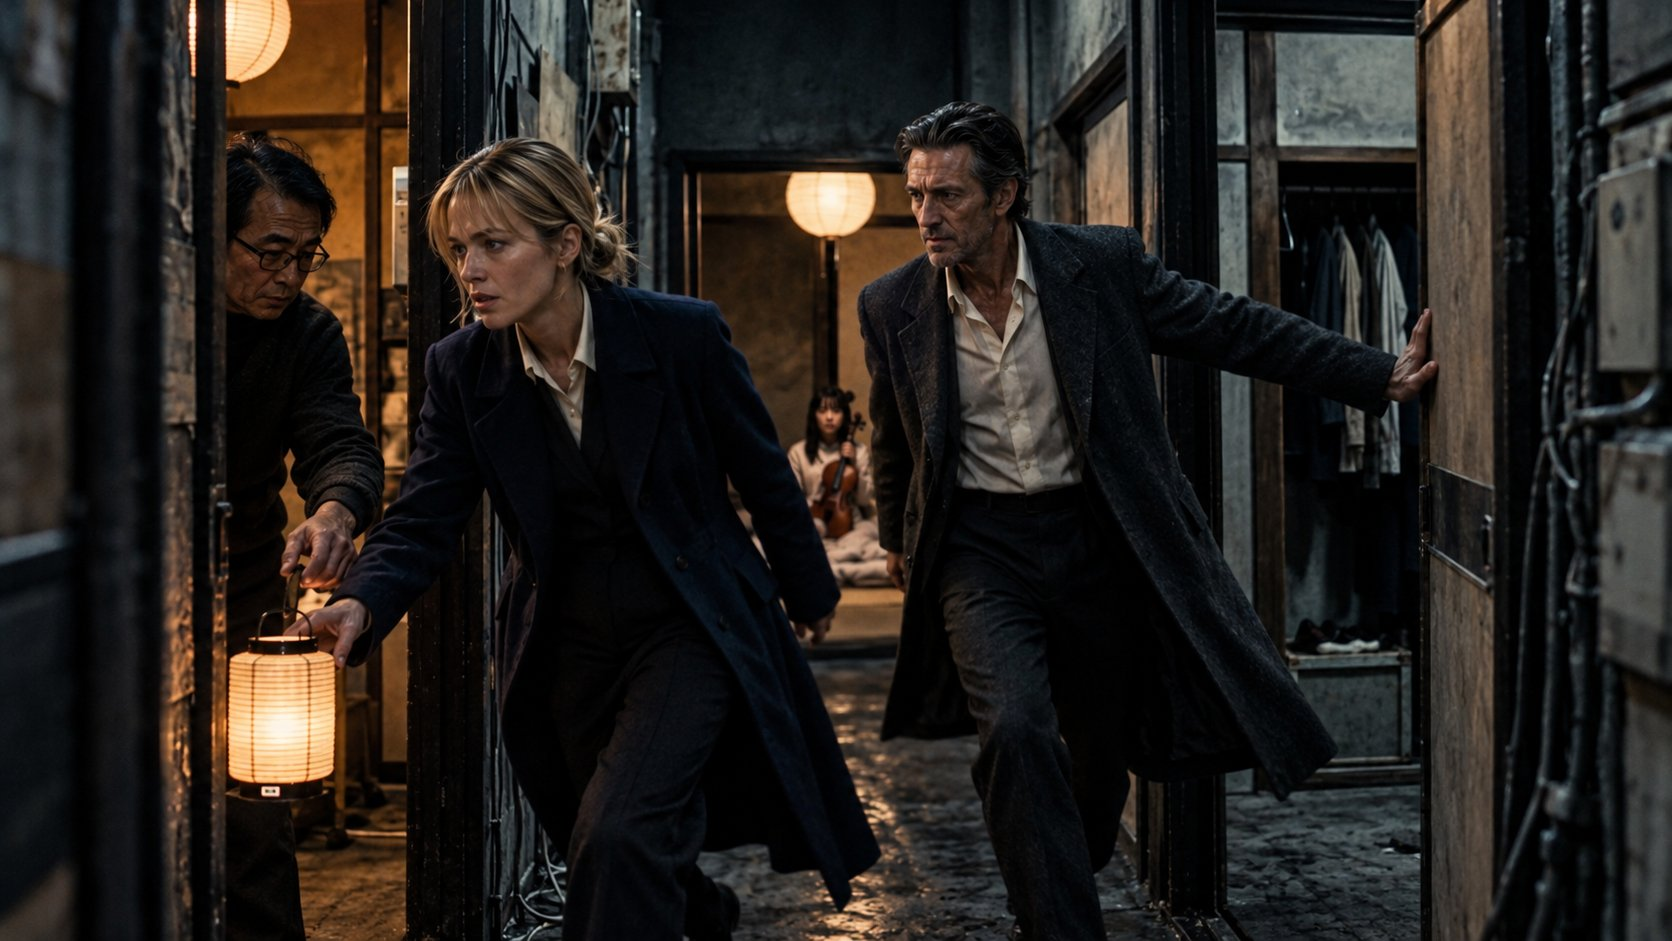
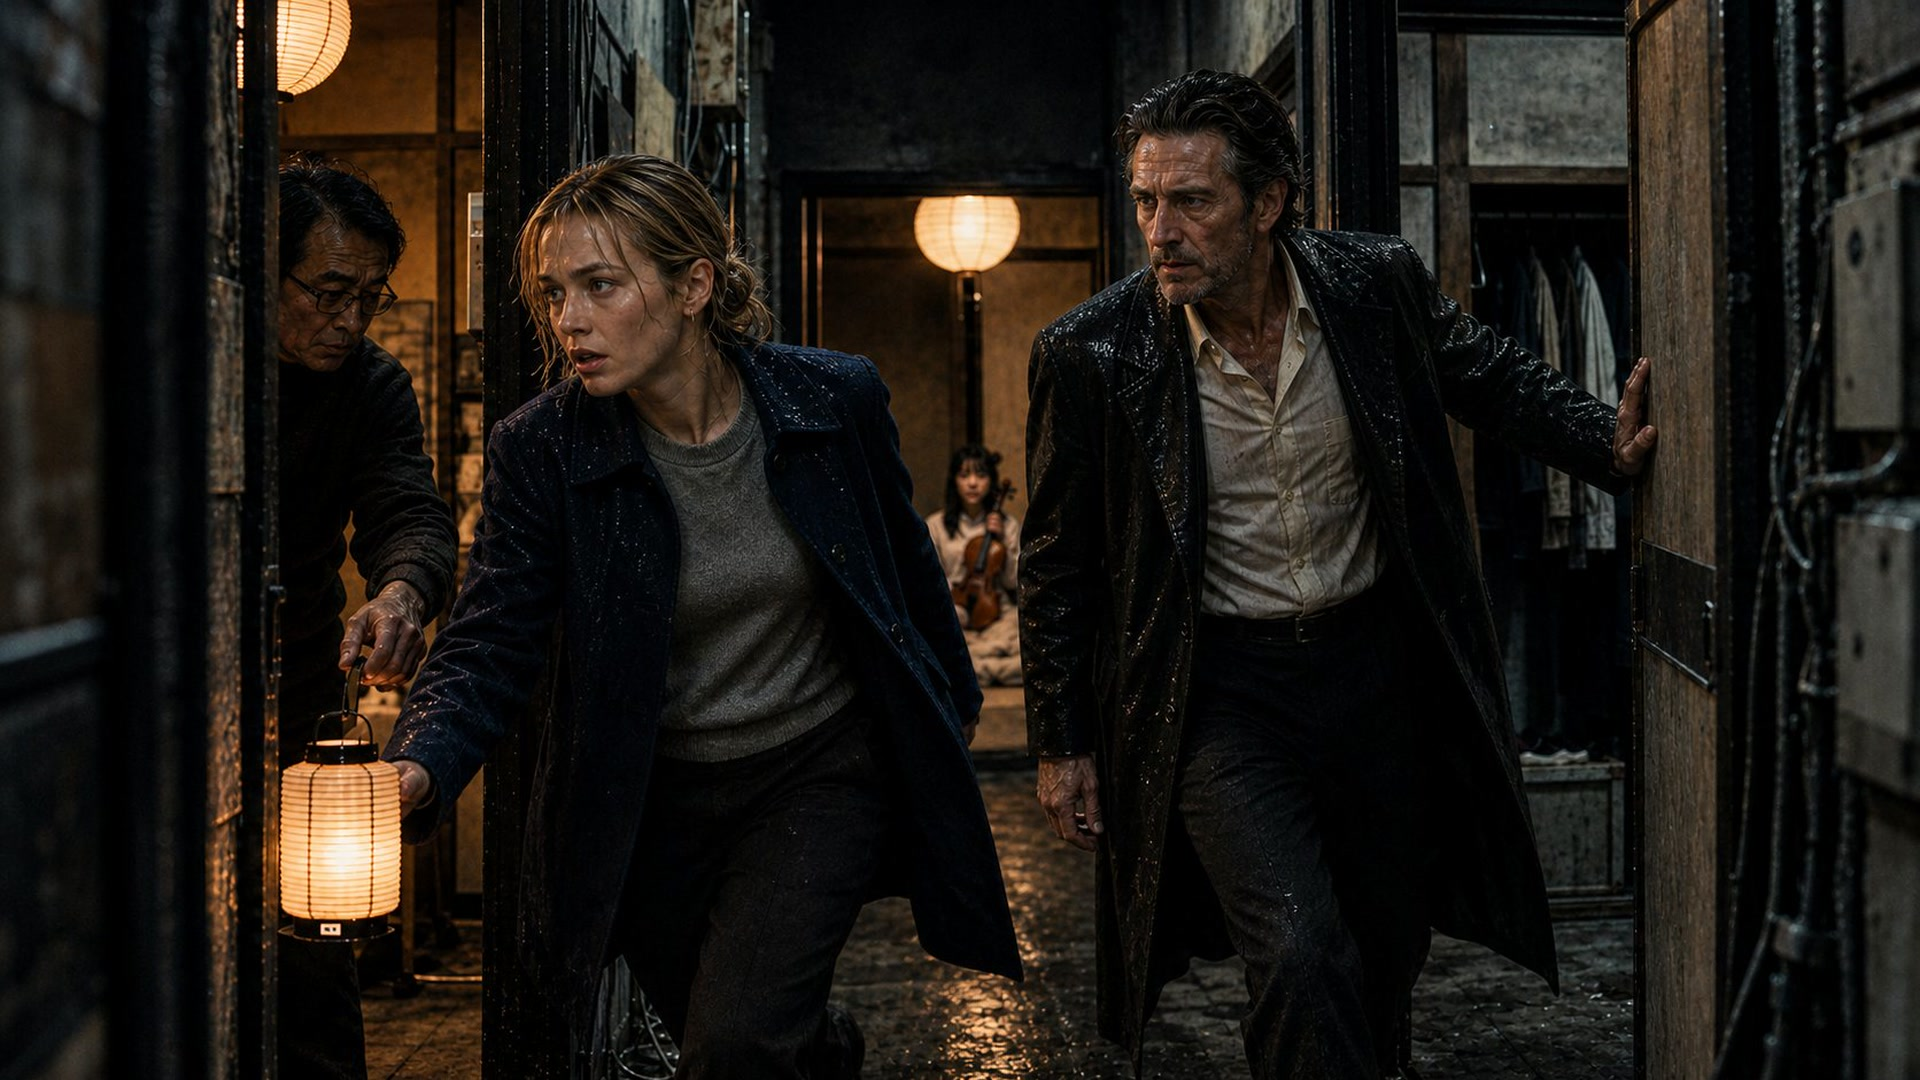
Retake s90/132, s70/396 and s94/368 at house size, on-model
The lantern passage and the run to the Hive door held to the cast sheets plus
the sequence's own matched frames; Kurose and Ishida on the back seat held to
sheets/kurose.jpg and sheets/ishida.jpg with the tea cup from s94/139. All
three installed at 1920x1080 (were 1672x941, 1344x768 and 1408x736), old files
archived, notes updated.

diff --git a/docs/director-notes-2026-10-20.md b/docs/director-notes-2026-10-20.md
@@ -408,14 +408,14 @@ The director picked the 17 pictures made from `docs/image-brief-2026-10-20.md` a
   generator's download, an earlier upload), install those over the halves with the install tool, which archives the old file.
   Otherwise they are retake candidates. The player stretches them to the screen, so they look soft.
   - 1365×768: `s17/360-more-than-the-bowl-costs` (remade 1920×1080 on 24 Oct), `s20/346-the-bulb-hums` (remade 2728×1534 on 24 Oct), `s54/220-everything-is-still-there` (remade 2508×1410 on 24 Oct), `s70/393-run` (remade 24 Oct),
-    `s90/381-the-plank` (remade 24 Oct), `s93/137-he-knows-this-car` (remade 24 Oct), `s93/138-the-door-opens` (remade 24 Oct),
-    `s94/139-only-tea` (remade 24 Oct), `s97a/565-they-bow` (remade 2048×1152 on 24 Oct).
-  - 1376×768: `s25/the-rice-goes-cold`, `s70/396-five-metres-three`, `s82/new-empty-newsroom.png`,
-    `s94/368-the-door-closes`, `service_new/556-the-lane-from-above`, `service_new/559-shoes-at-the-step`,
+    `s90/381-the-plank` (remade 24 Oct), `s90/132-the-gap` (remade 24 Oct), `s93/137-he-knows-this-car` (remade 24 Oct), `s93/138-the-door-opens` (remade 24 Oct),
+    `s94/139-only-tea` (remade 24 Oct), `s94/368-the-door-closes` (remade 24 Oct), `s97a/565-they-bow` (remade 2048×1152 on 24 Oct).
+  - 1376×768: `s25/the-rice-goes-cold`, `s82/new-empty-newsroom.png`,
+    `service_new/556-the-lane-from-above`, `service_new/559-shoes-at-the-step`,
     `service_new/560-jack-at-the-door`, `service_new/extras/mom-01-her-face-at-the-table`, `mom-02-mother-and-daughter`,
     `mom-03-what-she-wears-home`.
   - 1408×768: `montage/m4-railway-rain`.
-  - 1672×941: `s73/72-the-lost-heel`, `s90/132-the-gap`.
+  - 1672×941: `s73/72-the-lost-heel`.
   - 1536×1024: `s78/88-the-walkway`.
   - **Two of them remade at full size, 24 October, on-model.** The first three candidates came back off-model (a younger, smooth
   hand on Kurose's model, a different blonde in the kiosk, and a pair in the alley who were not Mara and Jack), so each was
@@ -451,6 +451,13 @@ The director picked the 17 pictures made from `docs/image-brief-2026-10-20.md` a
     **Watch the lettering:** one candidate came back with the door sign garbled (東面新聞 / 緯偉局) and no Jack in frame, and
     was rejected. `-4` was a PNG; its replacement is a JPEG, so `story.json`, `src/data/nobodysWitnessFilm.ts` and the
     film-backend check now name `…-4.jpg`, and the old PNG is archived.
+  - **Three more, closing the escape and the car, 24 October.** `s90/132-the-gap` (Mara in the grey jumper and navy jacket,
+    Jack in the leather coat, the lantern man and the girl with the violin), held to `hive_raid_takes/382` and the two cast
+    sheets — now 1920×1080, was 1672×941; old file `archive/s90/132-the-gap--v4.jpg`. `s70/396-five-metres-three` (Jack
+    letting her go at the dumpster, Mara splashing for the Hive door, the driver and sedan where 393 has them) — now
+    1920×1080, was 1344×768; old file `archive/s70/396-five-metres-three--v1.jpg`. `s94/368-the-door-closes` (Kurose and
+    Ishida on the back seat, held to `sheets/kurose.jpg`, `sheets/ishida.jpg` and the tea cup from `s94/139`) — now 1920×1080,
+    was 1408×736; old file `archive/s94/368-the-door-closes--v1.jpg`.
 - **Exactly 1920×1080 does not mean full detail.** The 17 retakes of 20 October were enlarged to 1920×1080 from the
   generator's smaller output, and many older pictures may have been too. A sharpness measurement could not tell those from
   native pictures reliably, so they are not listed. A picture that looks soft at full size is worth reporting by its mark
